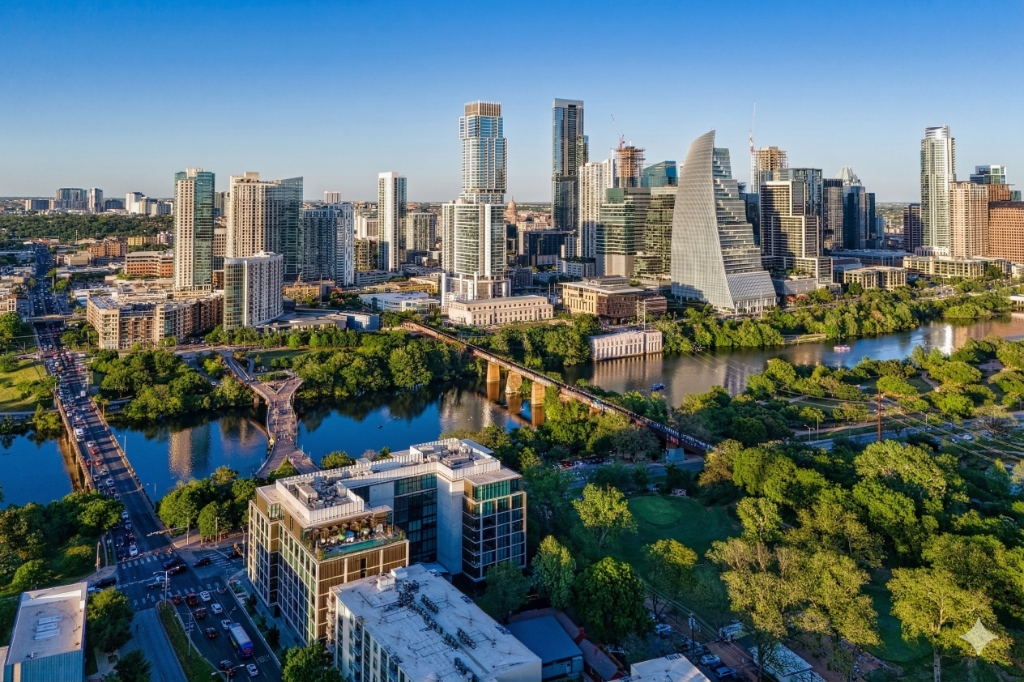
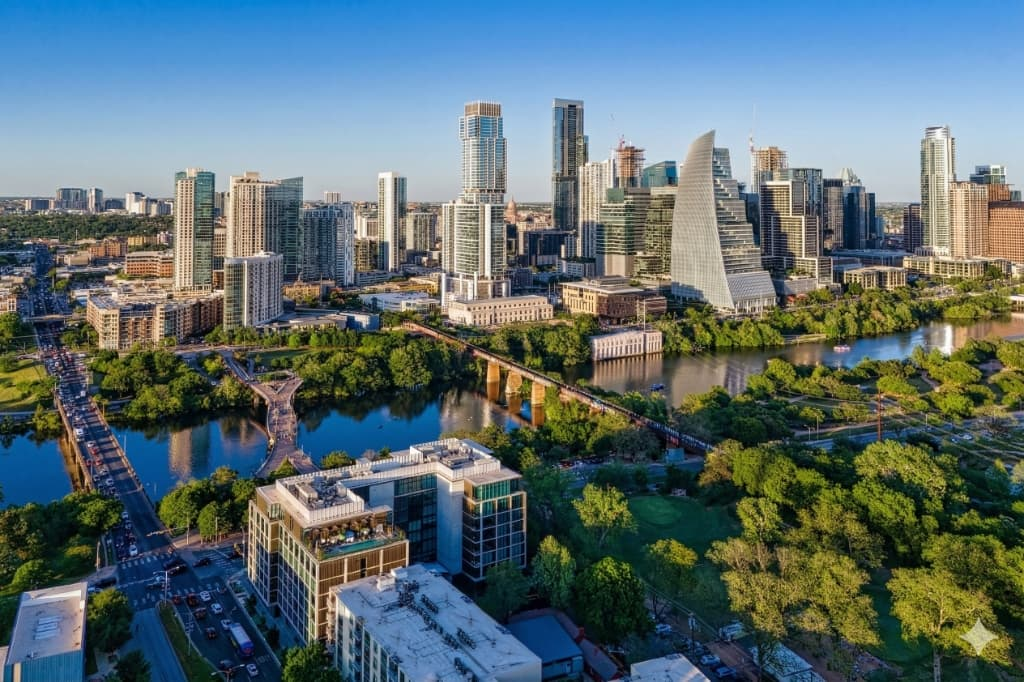
Cut page weight: compress heroes, drop dead images, cache assets, defer chat widget
- colorado-hero.jpg 13.4MB -> 320KB; homepage hero 2.5MB PNG -> 253KB JPG
  with width/height + fetchPriority to protect LCP; texas/roof/battery/
  oklahoma heroes compressed to 70-125KB
- Delete 18 unreferenced images (~45MB) shipped in every deploy
- Immutable 1-year cache headers on hashed /assets bundles
- Defer the LeadConnectorHQ chat widget script

Claude-Session: https://claude.ai/code/session_01Lw4rwKHLRDHcmGW8SQS6Pd

diff --git a/src/components/HomeHero.tsx b/src/components/HomeHero.tsx
@@ -19,10 +19,13 @@ export const HomeHero = () => {
       <div style={s.imgWrap} className="hero-img-wrap">
         {/* Hero image — full quality, no zoom, no distortion */}
         <img
-          src="/images/modern_suburban_home_with_solar_panels.png"
+          src="/images/modern_suburban_home_with_solar_panels.jpg"
           alt="Modern suburban home with rooftop solar panels"
           style={s.heroImg}
           className="hero-img"
+          width={1916}
+          height={821}
+          fetchPriority="high"
         />
         {/* Dark overlay — separate from image, never on the img element */}
         <div style={s.imgMask} className="hero-img-mask" />

diff --git a/index.html b/index.html
@@ -24,7 +24,7 @@
   <body>
     <div id="root"></div>
     <script type="module" src="/src/main.tsx"></script>
-    <script src="https://widgets.leadconnectorhq.com/loader.js" data-resources-url="https://widgets.leadconnectorhq.com/chat-widget/loader.js" data-widget-id="68962192aee066f763a62572"></script>
+    <script defer src="https://widgets.leadconnectorhq.com/loader.js" data-resources-url="https://widgets.leadconnectorhq.com/chat-widget/loader.js" data-widget-id="68962192aee066f763a62572"></script>
   </body>
 </html>
 
